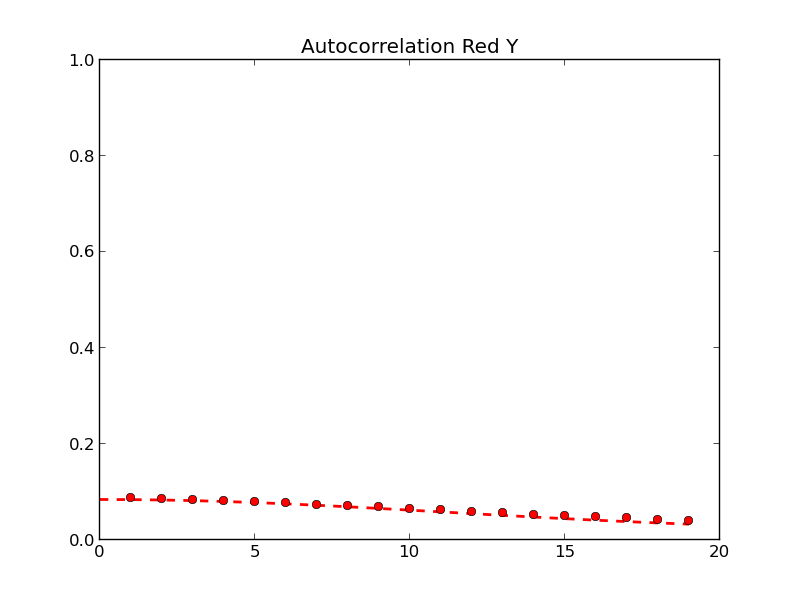
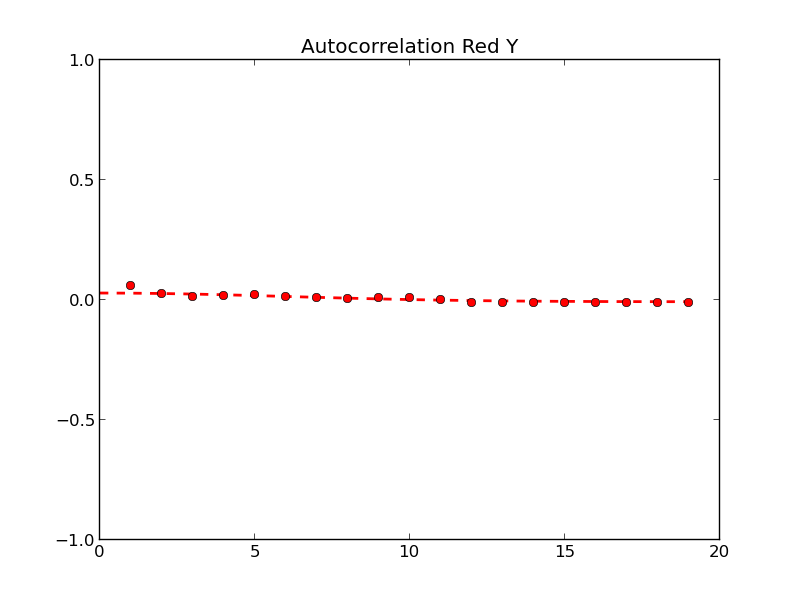
Enabled all correlations option.

diff --git a/local_GUI/start.py b/local_GUI/start.py
@@ -173,7 +173,8 @@ class StartQT4(QtGui.QMainWindow):
             scipy.misc.imsave(self.bluePath, self.blueChannel)
 
             # Convert each monochrome image to RGB for display on the interface
-            # Get rid of the green and blue channels
+
+            # Get rid of the green and blue channels in red image
             redImage = PIL.Image.open(self.redPath)
             redImage = redImage.convert("RGB")
             red = redImage.split()[0]
@@ -182,13 +183,15 @@ class StartQT4(QtGui.QMainWindow):
             redColorized = os.path.join(self.temp_dir, "rc_split.png")
             redImage.save(redColorized, "PNG")
 
+            # Get rid of red and blue channels in green image
             greenImage = PIL.Image.open(self.greenPath)
             greenImage = greenImage.convert("RGB")
             green = greenImage.split()[1]
             greenImage = PIL.Image.merge("RGB", (empty, green, empty))
             greenColorized = os.path.join(self.temp_dir, "gc_split.png")
             greenImage.save(greenColorized, "PNG")
-            
+
+            # Get rid of red and green channels in blue image
             blueImage = PIL.Image.open(self.bluePath)
             blueImage = blueImage.convert("RGB")
             blue = blueImage.split()[2]
@@ -461,18 +464,9 @@ class StartQT4(QtGui.QMainWindow):
             elif mode == "all":
                 # Construct string containing channels to be used
                 self.msgAll()
-                red = self.redChannel
-                green = self.greenChannel
-                blue = self.blueChannel
-                result = self.correlate_all(red, green, blue)
-                redAuto = result[0]
-                greenAuto = result[1]
-                blueAuto = result[2]
-                redGreenCross = result[3]
-                redBlueCross = result[4]
-                greenBlueCross = result[5]
-                self.select_tab("output", "triple")
-                self.show_fourier()
+                
+                self.allCorrelations()
+
             else:
                 self.message("Mode error.")
 
@@ -1021,7 +1015,7 @@ class StartQT4(QtGui.QMainWindow):
             self.ui.imageAutoBlue.setPixmap(QtGui.QPixmap(bPath))
 
         # Change to auto section of output tab
-        self.select_tab("output", "auto")
+        self.select_tab("output", "auto")        
 
     # Performs a cross-correlation.
     def crossCorrelation(self):
@@ -1249,6 +1243,105 @@ class StartQT4(QtGui.QMainWindow):
         self.ui.tripleWValue.setText(str(round(result.w,PRECISION)))
         self.ui.tripleGinfValue.setText(str(round(result.ginf,PRECISION)))
 
+    # Performs all possible correlations
+    def allCorrelations(self):
+        # Make color lists to send to the midend
+        autoColors = ['r', 'g', 'b']
+        crossColors = ['rg', 'rb', 'gb']
+        
+        # Get input parameters
+        g0 = self.get_all_G0()
+        w = self.get_all_W()
+        ginf = self.get_all_Ginf()
+        range_val = self.get_all_range()
+        deltas = self.get_all_deltas_checkbox()
+
+        # Run auto and cross correlations by calling the midend
+        autoResult = None
+        crossResult = None
+        if self.get_num_images() == 1:
+            pilImage = PIL.Image.open(self.rgbPath)
+            inputs = (pilImage, autoColors, g0, w, ginf, range_val, deltas)
+            autoResult = midend.adaptor.run_dual_mixed_image(*inputs)
+            inputs = (pilImage, crossColors, g0, w, ginf, range_val, deltas)
+            crossResult = midend.adaptor.run_dual_mixed_image(*inputs)
+        elif self.get_num_images() == 3:
+            pilR = PIL.Image.open(self.redPath)
+            pilG = PIL.Image.open(self.greenPath)
+            pilB = PIL.Image.open(self.bluePath)
+            inputs = (pilR, pilG, pilB, autoColors, g0, w, ginf, range_val, deltas)
+            autoResult = midend.adaptor.run_dual_separate_image(*inputs)
+            inputs = (pilR, pilG, pilB, crossColors, g0, w, ginf, range_val, deltas)
+            crossResult = midend.adaptor.run_dual_separate_image(*inputs)
+        else:
+            print("Error: number of images is not 1 or 3.")
+
+        # Get updated parameters and update output tab
+        self.set_auto_resnorm(round(autoResult[0].resNorm, PRECISION))
+        self.set_auto_G0(round(autoResult[0].g0,PRECISION))
+        self.set_auto_W(round(autoResult[0].w,PRECISION))
+        self.set_auto_Ginf(round(autoResult[0].ginf,PRECISION))
+        self.set_auto_deltas(autoResult[0].usedDeltas)
+
+        self.set_cross_resnorm(round(crossResult[0].resNorm, PRECISION))
+        self.set_cross_G0(round(crossResult[0].g0, PRECISION))
+        self.set_cross_W(round(crossResult[0].w, PRECISION))
+        self.set_cross_Ginf(round(crossResult[0].ginf, PRECISION))
+        self.set_cross_deltas(crossResult[0].usedDeltas)
+
+        # Create and display the graphs
+        rPath = os.path.join(self.temp_dir, "r_graph.png")
+        gPath = os.path.join(self.temp_dir, "g_graph.png")
+        bPath = os.path.join(self.temp_dir, "b_graph.png")
+        rgPath = os.path.join(self.temp_dir, "rg_graph.png")
+        rbPath = os.path.join(self.temp_dir, "rb_graph.png")
+        gbPath = os.path.join(self.temp_dir, "gb_path.png")
+
+        for i, x in enumerate(autoResult):
+            fileLike = x.plotToStringIO()
+            outFile = None
+            if x.color == "r":
+                outFile = open(rPath, "wb")
+            elif x.color == "g":
+                outFile = open(gPath, "wb")
+            elif x.color == "b":
+                outFile = open(bPath, "wb")
+            else:
+                print("Error: invalid color.")
+                
+            for line in fileLike.readlines():
+                outFile.write(line)
+            outFile.close()
+        
+        for i, x in enumerate(crossResult):
+            fileLike = x.plotToStringIO()
+            outFile = None
+            if x.color == "rg":
+                outFile = open(rgPath, "wb")
+            elif x.color == "rb":
+                outFile = open(rbPath, "wb")
+            elif x.color == "gb":
+                outFile = open(gbPath, "wb")
+            else:
+                print("Error: invalid color.")
+
+            for line in fileLike.readlines():
+                outFile.write(line)
+            outFile.close()
+
+        self.ui.imageAutoRed.setPixmap(QtGui.QPixmap(rPath))
+        self.ui.imageAutoGreen.setPixmap(QtGui.QPixmap(gPath))
+        self.ui.imageAutoBlue.setPixmap(QtGui.QPixmap(bPath))
+        self.ui.imageCrossRG.setPixmap(QtGui.QPixmap(rgPath))
+        self.ui.imageCrossRB.setPixmap(QtGui.QPixmap(rbPath))
+        self.ui.imageCrossGB.setPixmap(QtGui.QPixmap(gbPath))
+
+        # Select triple correlation tab to allow further parameter input
+        self.select_tab("output", "triple")
+
+        # Show the Fourier transform (red) surface plot
+        self.show_fourier()
+
     #####################################################
     # Message Box Functions                             #
     #####################################################
@@ -1348,9 +1441,9 @@ class StartQT4(QtGui.QMainWindow):
     # Constructive message to show user when all correlations are selected
     def msgAll(self):
         text = "Running all possible correlations using parameters ["
-        text += "Range = " + self.get_all_range() + ", g(0) = "
-        text += self.get_all_G0() + ", w = " + self.get_all_W()
-        text += ", gInf = " + self.get_all_Ginf() + "],"
+        text += "Range = " + str(self.get_all_range()) + ", g(0) = "
+        text += str(self.get_all_G0()) + ", w = " + str(self.get_all_W())
+        text += ", gInf = " + str(self.get_all_Ginf()) + "],"
         if self.get_all_deltas_checkbox() == False:
             text += " do not"
             text += " consider deltas, using sample resolution "
